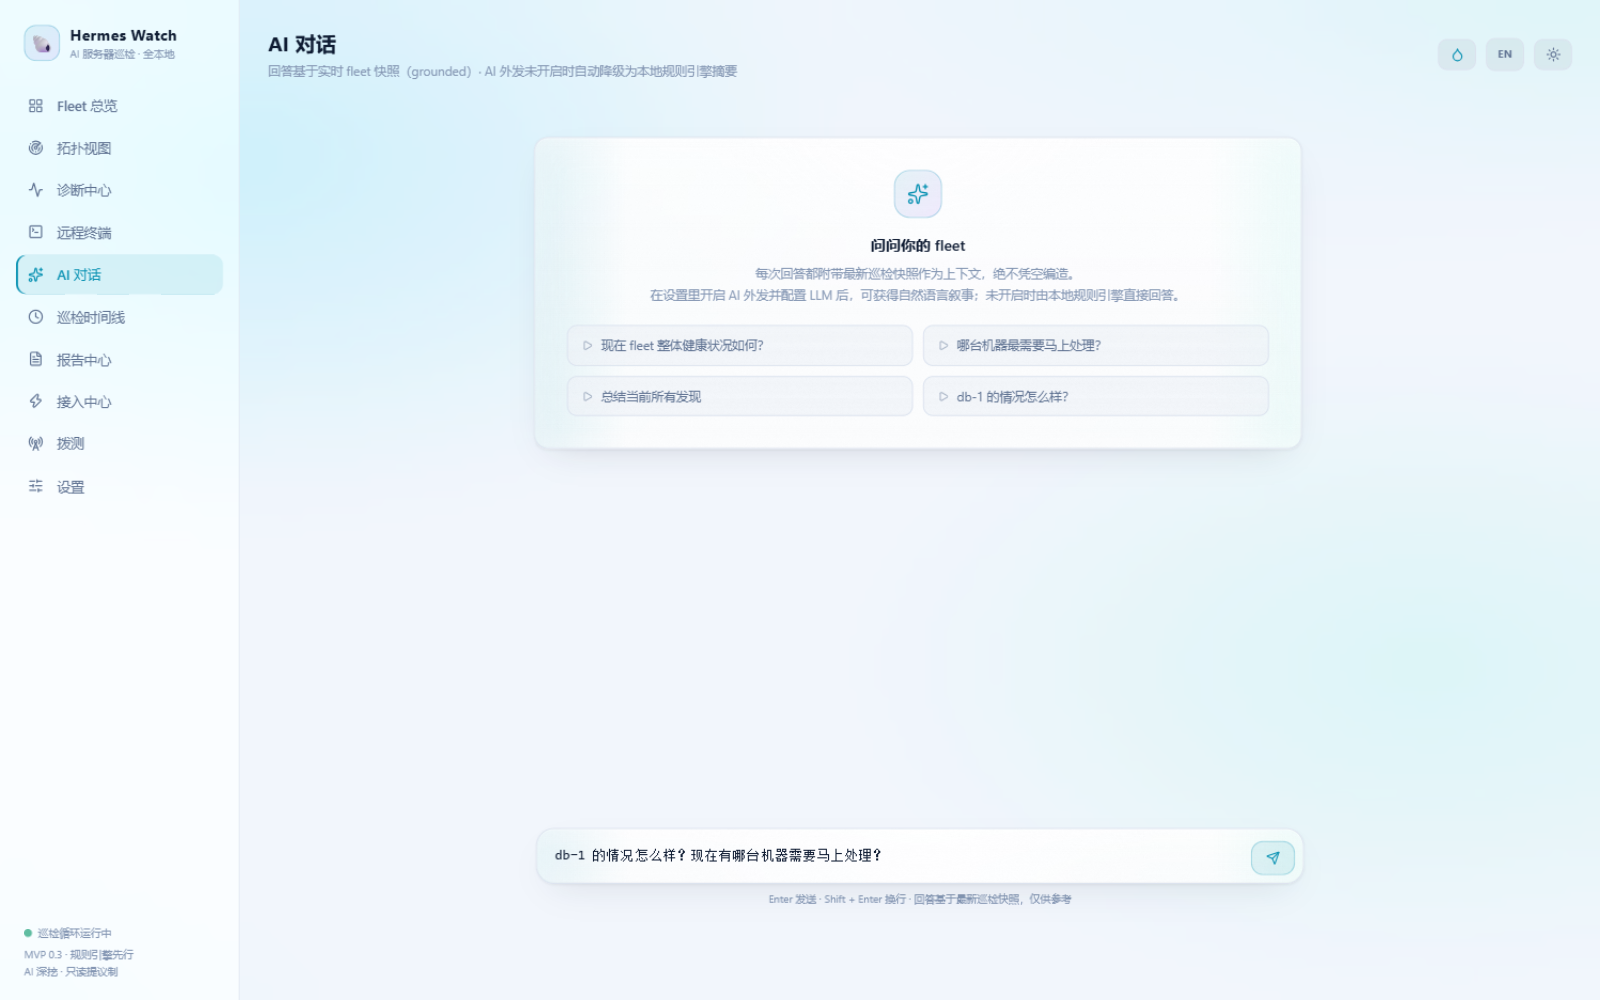
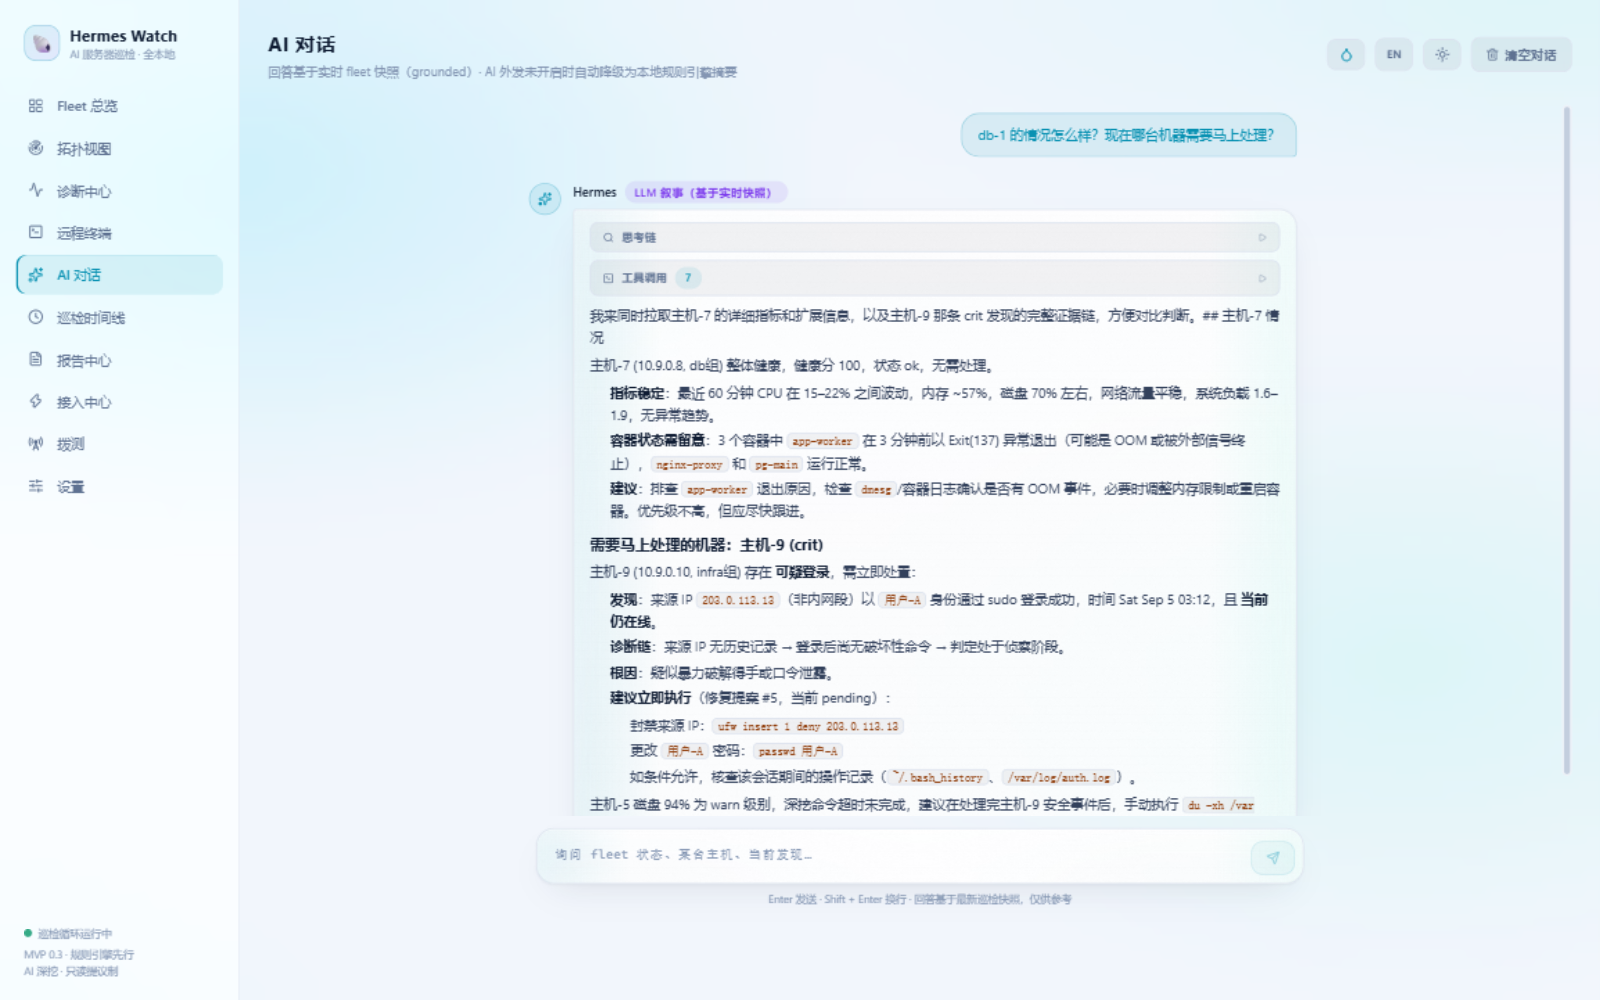
README 截图画廊：Fleet 首图 + 诊断/拨测/AI 对话三联（AI 对话实拍含思考链与工具调用折叠块、脱敏占位符）；附带 chat 链路修复后面板实测图

diff --git a/README_EN.md b/README_EN.md
@@ -6,6 +6,14 @@ English · [中文](README.md)
 
 **In one sentence**: Grafana/Netdata lock AI behind cloud paywalls and per-host pricing. Hermes Watch lets an ops-savvy agent live on your own machine — it inspects local and cloud servers automatically, digs into root causes, and produces visual health reports. Your data never leaves the box.
 
+## Screenshots
+
+![Fleet overview](docs/screenshots/fleet.png)
+
+| Diagnostics (root-cause cards, evidence, approvals) | Probes (URL/TCP/DNS/ICMP/Push) | AI chat (thinking & tool calls, collapsed) |
+|---|---|---|
+| ![](docs/screenshots/diagnostics.png) | ![](docs/screenshots/probes.png) | ![](docs/screenshots/chat.png) |
+
 ## Why
 
 Existing self-hosted monitoring picks two of three: light deployment, solid alerting, AI depth. Enterprise AI Ops (Keep, kagent, holmesgpt) ingests alerts from cloud tools and needs a fleet of backing services. Lightweight probes (Beszel, Gatus) polish collection but have no diagnosis. Hermes Watch occupies the empty spot: **the diagnose → approve → execute closed loop, inside a single self-hosted box that runs on 2GB of RAM**.

diff --git a/README.md b/README.md
@@ -8,6 +8,14 @@
 
 **一句话**：Grafana/Netdata 把 AI 锁在云里按条收费，Hermes Watch 让一个懂运维的 agent 住进你自己的机器——自动巡检本地和云服务器、深挖根因、出可视化健康报告，全程数据不出本机。
 
+## 界面一览
+
+![Fleet 总览](docs/screenshots/fleet.png)
+
+| 诊断中心（根因卡 + 证据链 + 提案审批） | 拨测（URL/TCP/DNS/ICMP/Push） | AI 对话（思考链/工具调用折叠展示） |
+|---|---|---|
+| ![](docs/screenshots/diagnostics.png) | ![](docs/screenshots/probes.png) | ![](docs/screenshots/chat.png) |
+
 ## 📸 界面截图
 
 | Fleet 总览 | 主机拓扑 | 设置中心 |
